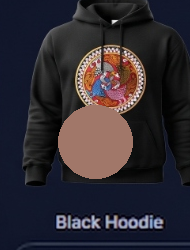
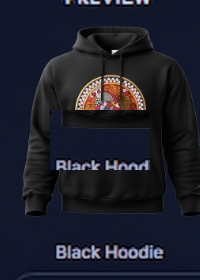
design: implement high-fidelity interactive 3D black hoodie preview using PIL-cloned crop

diff --git a/app/page.tsx b/app/page.tsx
@@ -268,56 +268,32 @@ function HomeContent() {
                 </div>
 
                 {/* Hoodie preview */}
-                <div className="w-[140px] bg-card border-l border-border flex flex-col items-center justify-center gap-2 py-4 px-2 select-none">
-                  <div className="text-[11px] font-heading font-semibold text-muted-foreground uppercase tracking-wider">Preview</div>
+                <div className="w-[140px] bg-[#111827] dark:bg-[#0c101b] border-l border-border flex flex-col items-center justify-between py-4 select-none">
+                  <div className="text-[11px] font-heading font-semibold text-zinc-400 dark:text-zinc-500 uppercase tracking-wider">Preview</div>
                   
-                  {/* Hoodie SVG representation */}
-                  <div className="w-[100px] h-[120px]">
-                    <svg viewBox="0 0 100 120" className="w-[100px] h-[120px]">
-                      {/* Body & Sleeves (Long sleeves for hoodie) */}
-                      <path 
-                        d="M32 30 L12 48 L4 43 L16 85 L22 83 L26 48 L26 110 L74 110 L74 48 L78 83 L84 85 L96 43 L88 48 L68 30 Z" 
-                        fill="#18181b" 
-                        stroke="#3f3f46" 
-                        strokeWidth="1.5"
-                      />
-                      {/* Hood */}
-                      <path 
-                        d="M32 30 C30 12, 38 8, 50 8 C62 8, 70 12, 68 30 C64 34, 36 34, 32 30 Z" 
-                        fill="#27272a" 
-                        stroke="#3f3f46" 
-                        strokeWidth="1.5"
-                      />
-                      {/* Hood Opening & Fold */}
-                      <path 
-                        d="M38 30 C42 22, 58 22, 62 30" 
-                        fill="none" 
-                        stroke="#52525b" 
-                        strokeWidth="1"
-                      />
-                      {/* Kangaroo Pouch pocket */}
-                      <path 
-                        d="M34 85 L66 85 L60 68 L40 68 Z" 
-                        fill="#18181b" 
-                        stroke="#3f3f46" 
-                        strokeWidth="1.2"
-                      />
-                      {/* Drawstrings */}
-                      <path d="M46 32 L46 45" stroke="#52525b" strokeWidth="1" />
-                      <path d="M54 32 L54 48" stroke="#52525b" strokeWidth="1" />
-                      
-                      {/* Selected motif printed in the middle of the black hoodie chest */}
-                      <image 
-                        href={selectedDesign.motifImage} 
-                        x="37" 
-                        y="42" 
-                        width="26" 
-                        height="26" 
-                      />
-                    </svg>
+                  {/* Realistic Hoodie Preview */}
+                  <div className="relative w-full h-[180px] flex items-center justify-center overflow-hidden">
+                    <Image 
+                      src="/images/products/black_hoodie_blank.png" 
+                      alt="Black Hoodie Preview" 
+                      fill 
+                      className="object-cover scale-110"
+                    />
+                    
+                    {/* Selected Motif Overlay */}
+                    <div className="absolute inset-0 flex items-center justify-center pt-2.5">
+                      <div className="relative w-[34px] h-[34px]">
+                        <Image 
+                          src={selectedDesign.motifImage} 
+                          alt="Printed motif" 
+                          fill 
+                          className="object-contain" 
+                        />
+                      </div>
+                    </div>
                   </div>
                   
-                  <div className="text-[10px] text-muted-foreground text-center font-sans">Black Hoodie</div>
+                  <div className="text-[10px] text-zinc-400 dark:text-zinc-500 text-center font-sans font-bold">Black Hoodie</div>
                 </div>
               </div>
             </div>
